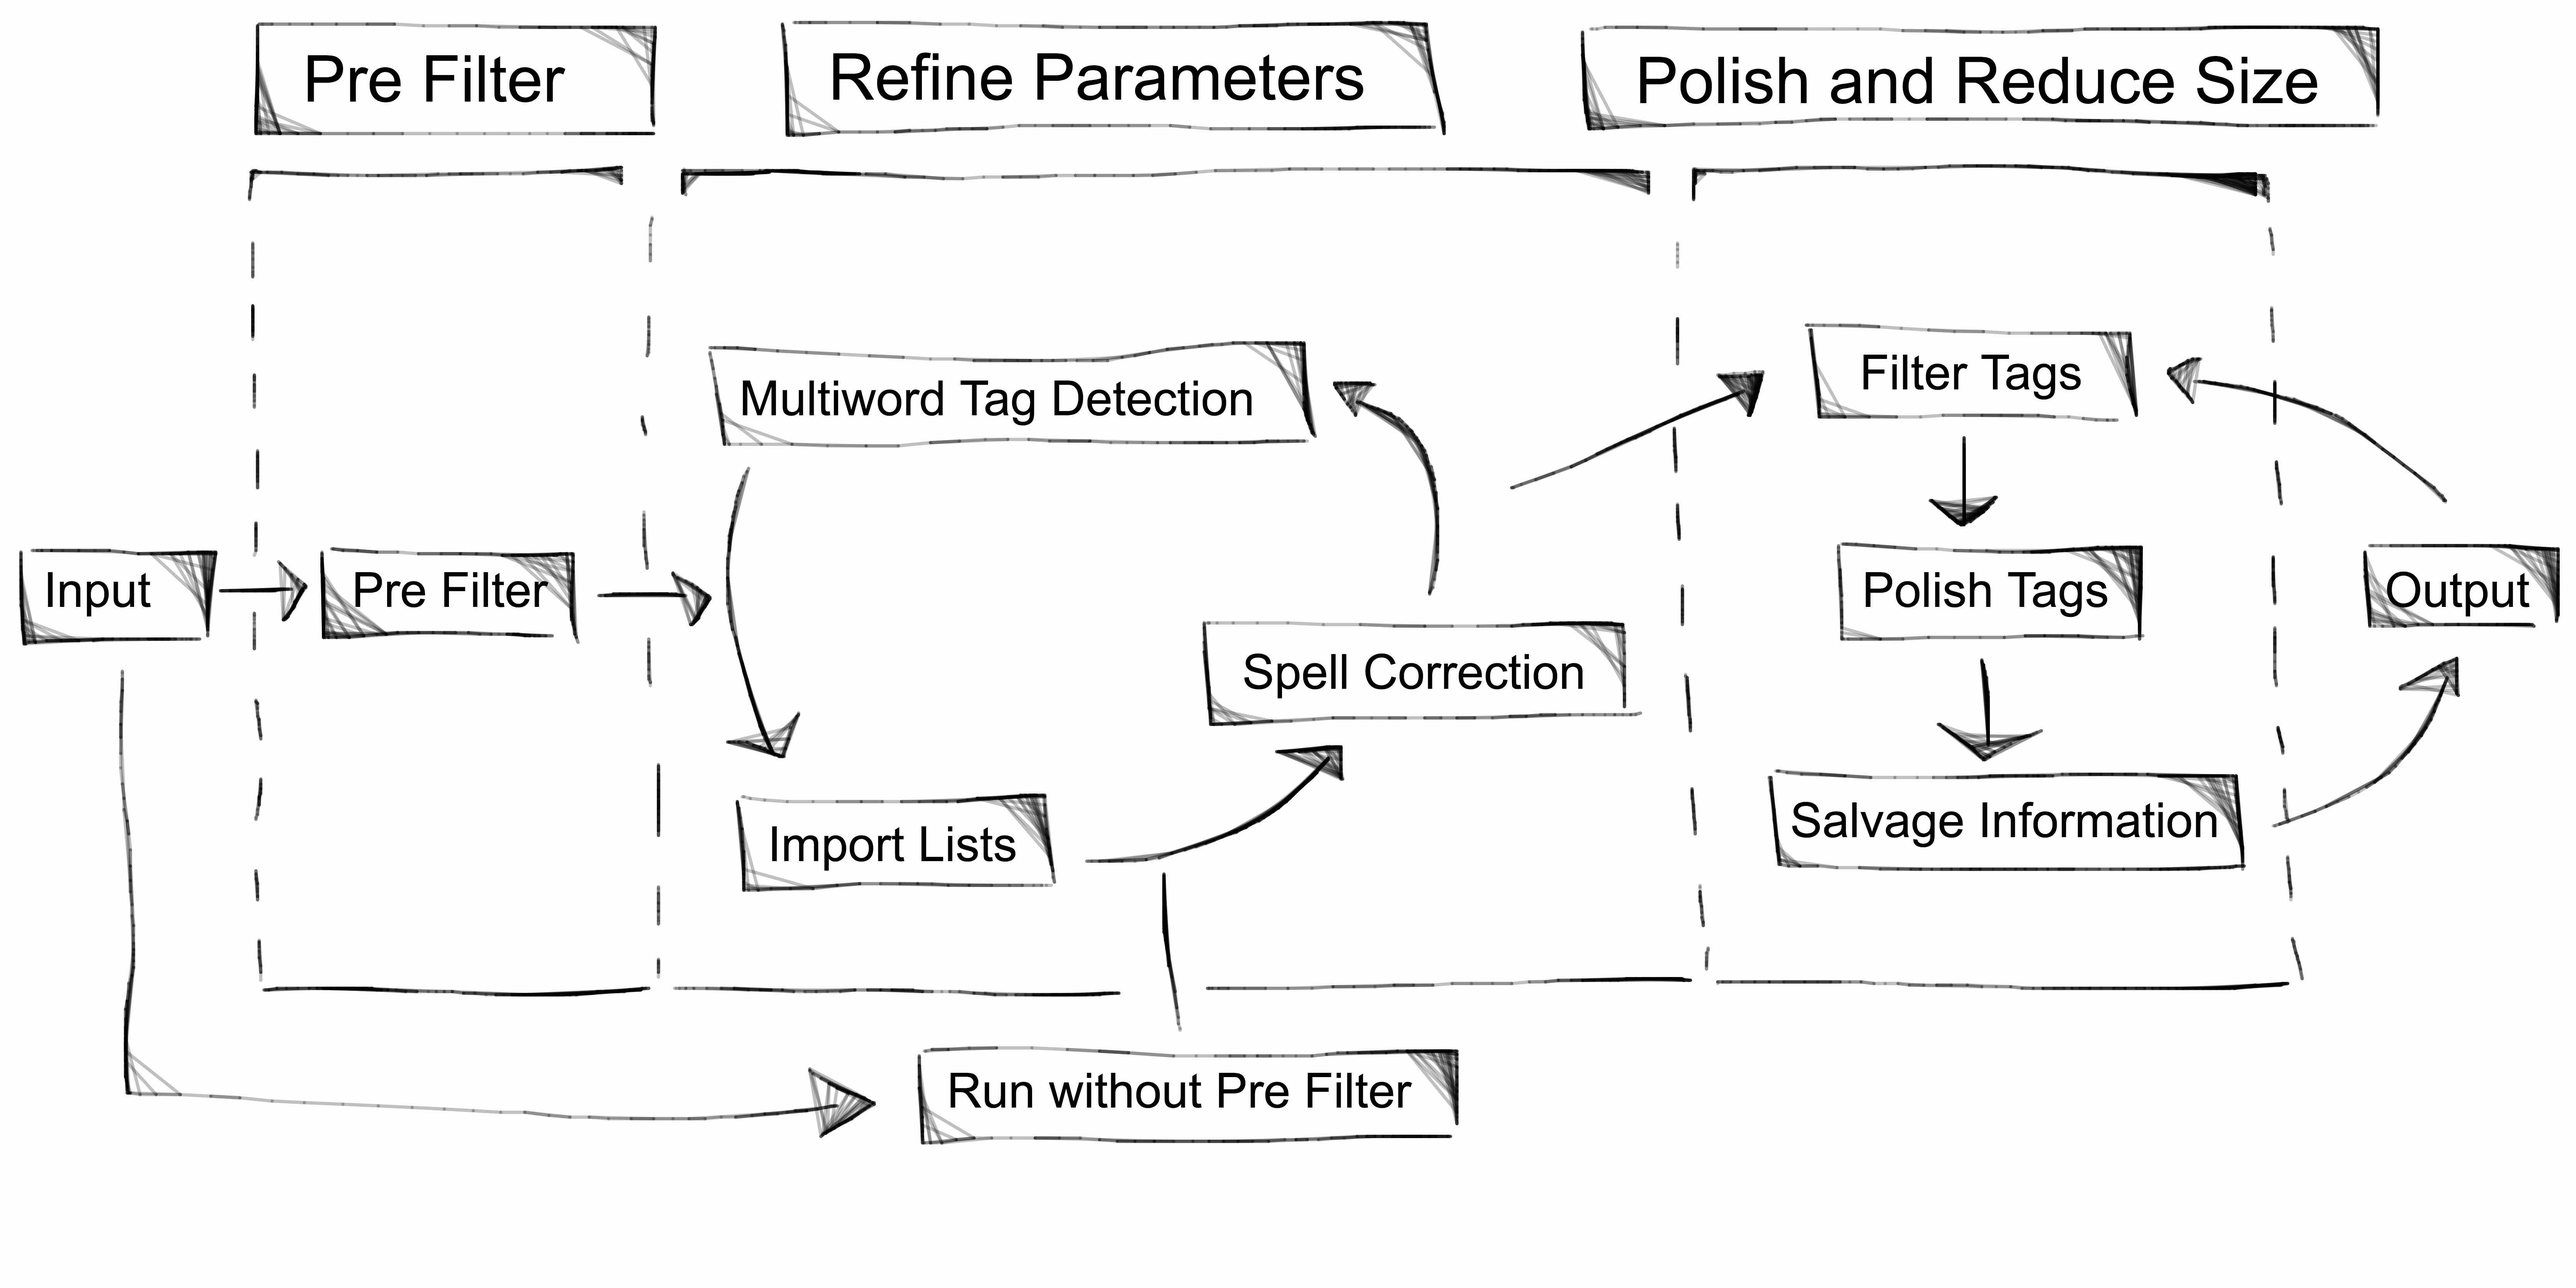
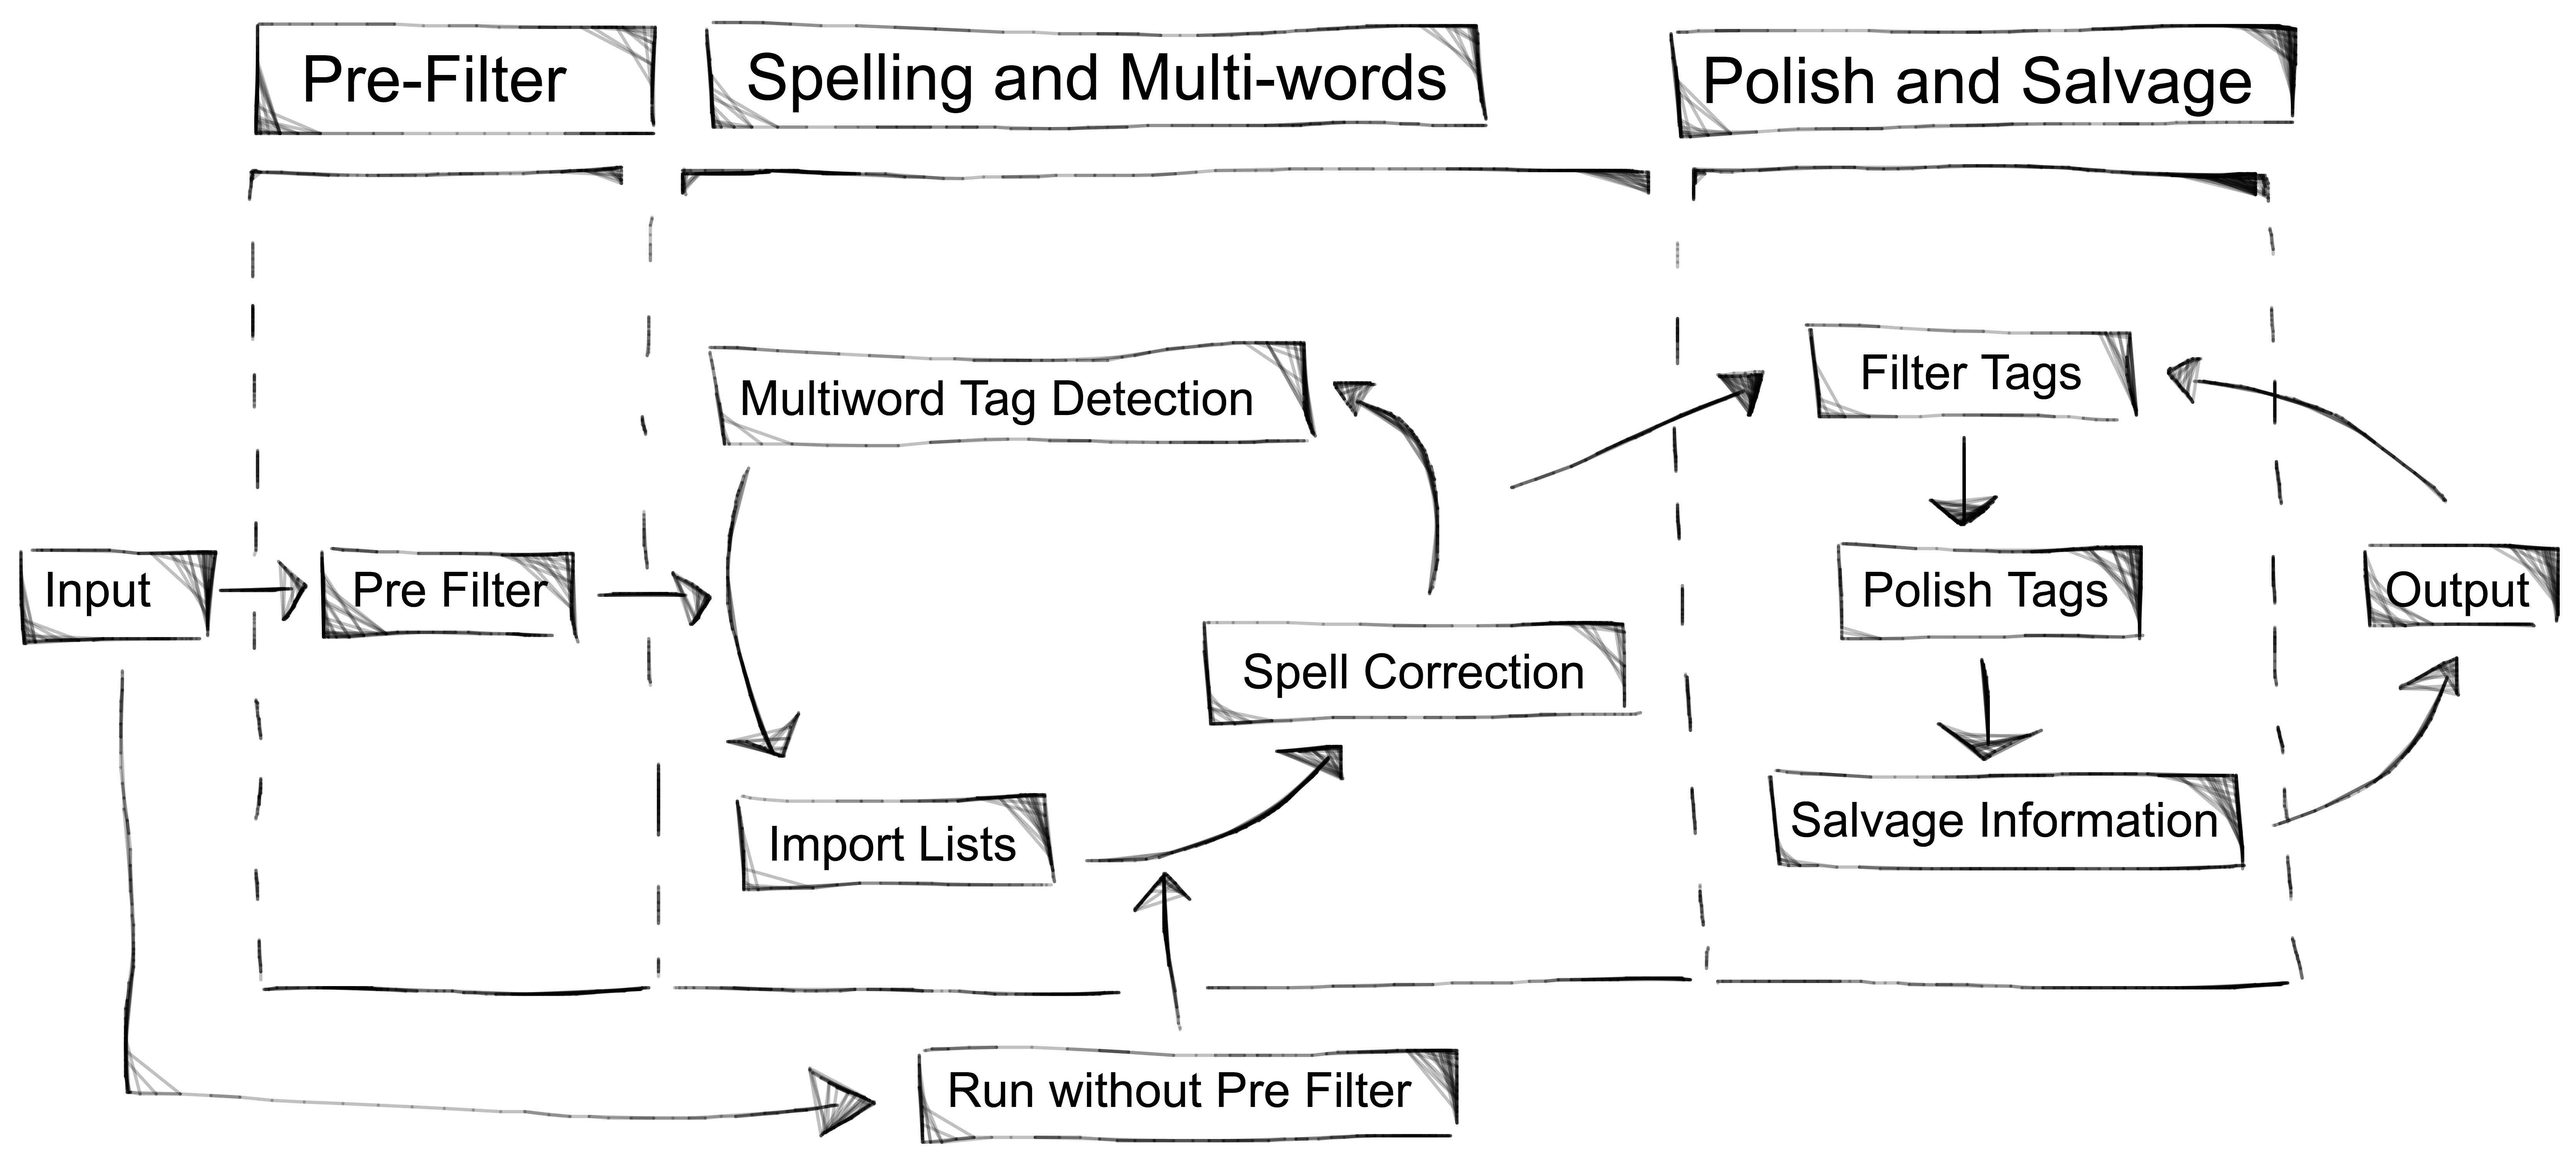
Added first version of project description.

diff --git a/tagrefinery.html b/tagrefinery.html
@@ -35,24 +35,42 @@
 
     <div class="col-sm-9 corner">
     <br>
+      <p><strong>TagRefinery</strong> is a research project hosted on <a href="https://github.com/Christoph/tagrefinery-releases">Github</a>. <br>
+      Download: <a href="https://github.com/Christoph/tagrefinery-releases/archive/master.zip">TagRefinery</a></p>
+      You need at least Java version <a href="http://www.oracle.com/technetwork/java/javase/downloads/jre8-downloads-2133155.html">1.8</a> to use TagRefinery.
+      <hr>
+      <p>TagRefinery supports you in your task of cleaning and processing open tag spaces. A guided and step-by-step interface allows you to perform efficiently tasks such as spell-correction, multi-word tag detection, and word form consolidation, in a visually supported framework.</p>
+      <p>The default use case is a significant reduction of a huge vocabulary, without loosing too much information. The project <a href="http://dl.acm.org/citation.cfm?doid=2856767.2856780">TagFlip</a> used TagRefinery and reduced a dataset with initial <strong>500,000</strong> words full of noise to <strong>362</strong> meaningful words, while still keeping <strong>50%</strong> of their inital dataset size. This data is used in a music recommendation app.</p> 
+      <p>We are working currently on the expansion of TagRefinery to more use cases/fields.</p>
       <h3 class="anchor" id="section1">Workflow</h3>
       <img src="images/workflow.jpg" width=600px>
-
+      <p>This picture illustrates the workflow split into three bis steps and seven sub steps.</p>
+      <p>The <strong>Pre Filter</strong> step lets you reduce the total amount of words in the dataset by removing rare words. This is intended to reduce the computation time temporary until you have found good parameters in the following step.</p>
+      <p>The <strong>Spelling and Multi-words</strong> step provides you with the tools to consolidate word forms (<em>favorite, favourite, favourites,...)</em>), reduce spelling errors and find meaningful multi-word tags (<em>hard-rock, 3d-rendering, ...</em>). The spelling correction is language independed and gives you control what will be replaced. The multi-word detection is realised as a two step method using a frequency and a uniqueness measure.</p>
       <hr>
       <h3 class="anchor" id="section2">Data</h3>
+      <p>The first step is the data import. TagRefinery can import csv files with three columns (tag,item,weight).</p>
+      <p><strong>Tag</strong> is the actual tag you are interested in. This can be just one word or any number of words which are treated as one tag.</p>
+      <p><strong>Item</strong> is the item where the tag is attached to. This can be a song, movie or a puplication.</p>
+      <p><strong>Weight</strong> is a positive number which describes how important a distinct tag/item pair is. Here you might include additional meta information you have like ascore you have compuated or the number times a song was listened to. TagRefinery uses the weight to compute the <strong>word quality</strong> which describes the quality/importance of a certain word.</p>
       <img src="images/import.png" width=600px>
-
+      <p>This is the import view with the example dataset loaded.</p>
       <hr>
       <h3 class="anchor" id="section3">Guided Mode</h3>
+      <p>The <strong>Guided Mode</strong> supports you in the process of tag refinement by presenting the workflow step-by-step. This eases this complex tasks and reduces the mental load of the whole process. The following picture shows an example step. At the top is a progres bar which shows the current position in the whole process, below that is the question which needs a decision and in the bottom is a short description of the step. On the right side is a overview of all completed steps.</p>
       <img src="images/guided.png" width=600px>
+      <br>
+      <p>Another example step is the spell correction step, which is shown in the following picture. The left list shows all words sorted by there <strong>word quality</strong> and you can select which of those words should be treated as truth. For those selected words shows the right list all possible replacements with the corresponding similarity.</p>
       <img src="images/spell.png" width=600px>
 
       <hr>
       <h3 class="anchor" id="section4">Results</h3>
+      <p>After moving through all steps you end up with a cleaner set of tags which can be exported again as csv file.</p>
       <img src="images/result.png" width=600px>
 
       <hr>
       <h3 class="anchor" id="section5">Advanced</h3>
+      <p>Advanced user with background knowledge of natural language processing algorithms or advanced users can use the <strong>Advanced Mode</strong>. This mode provides all views from the guided mode and in addition more advanced parameters like characters to remove or the maximum number of words in a multi-word tag. This mode gives full control but should be used with care.</p>
       <img src="images/advanced.png" width=600px>
     </div>
   </div>
